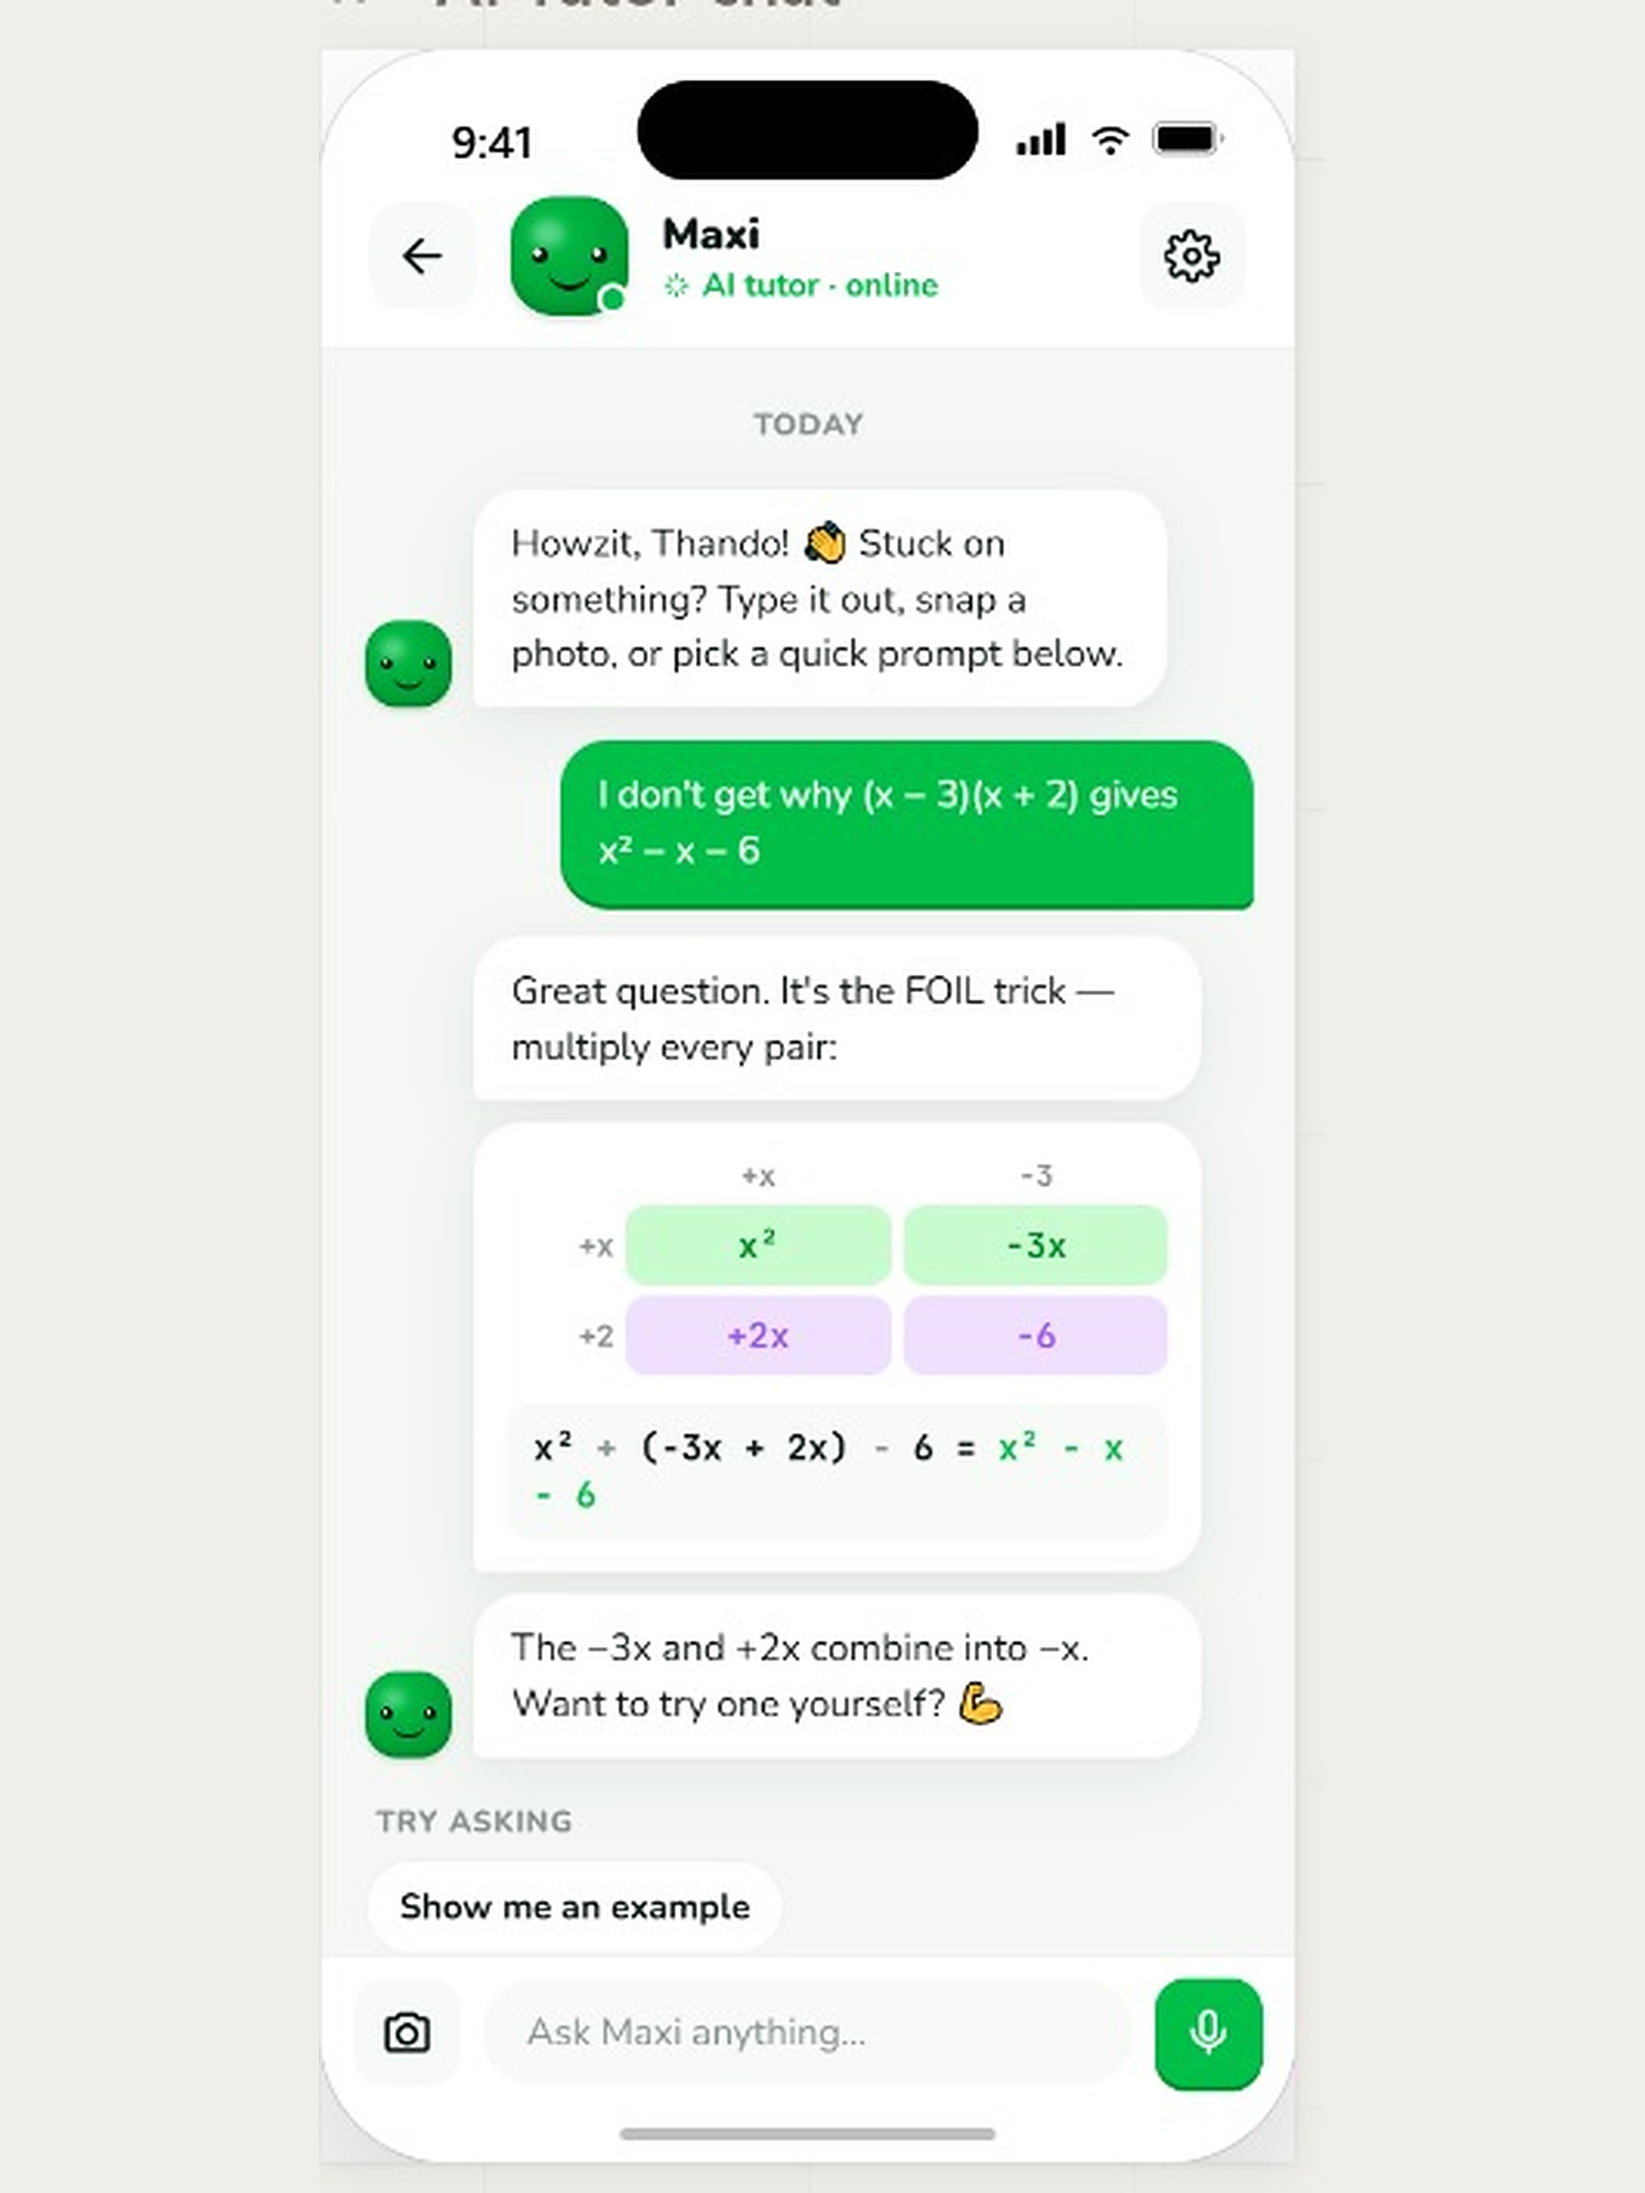
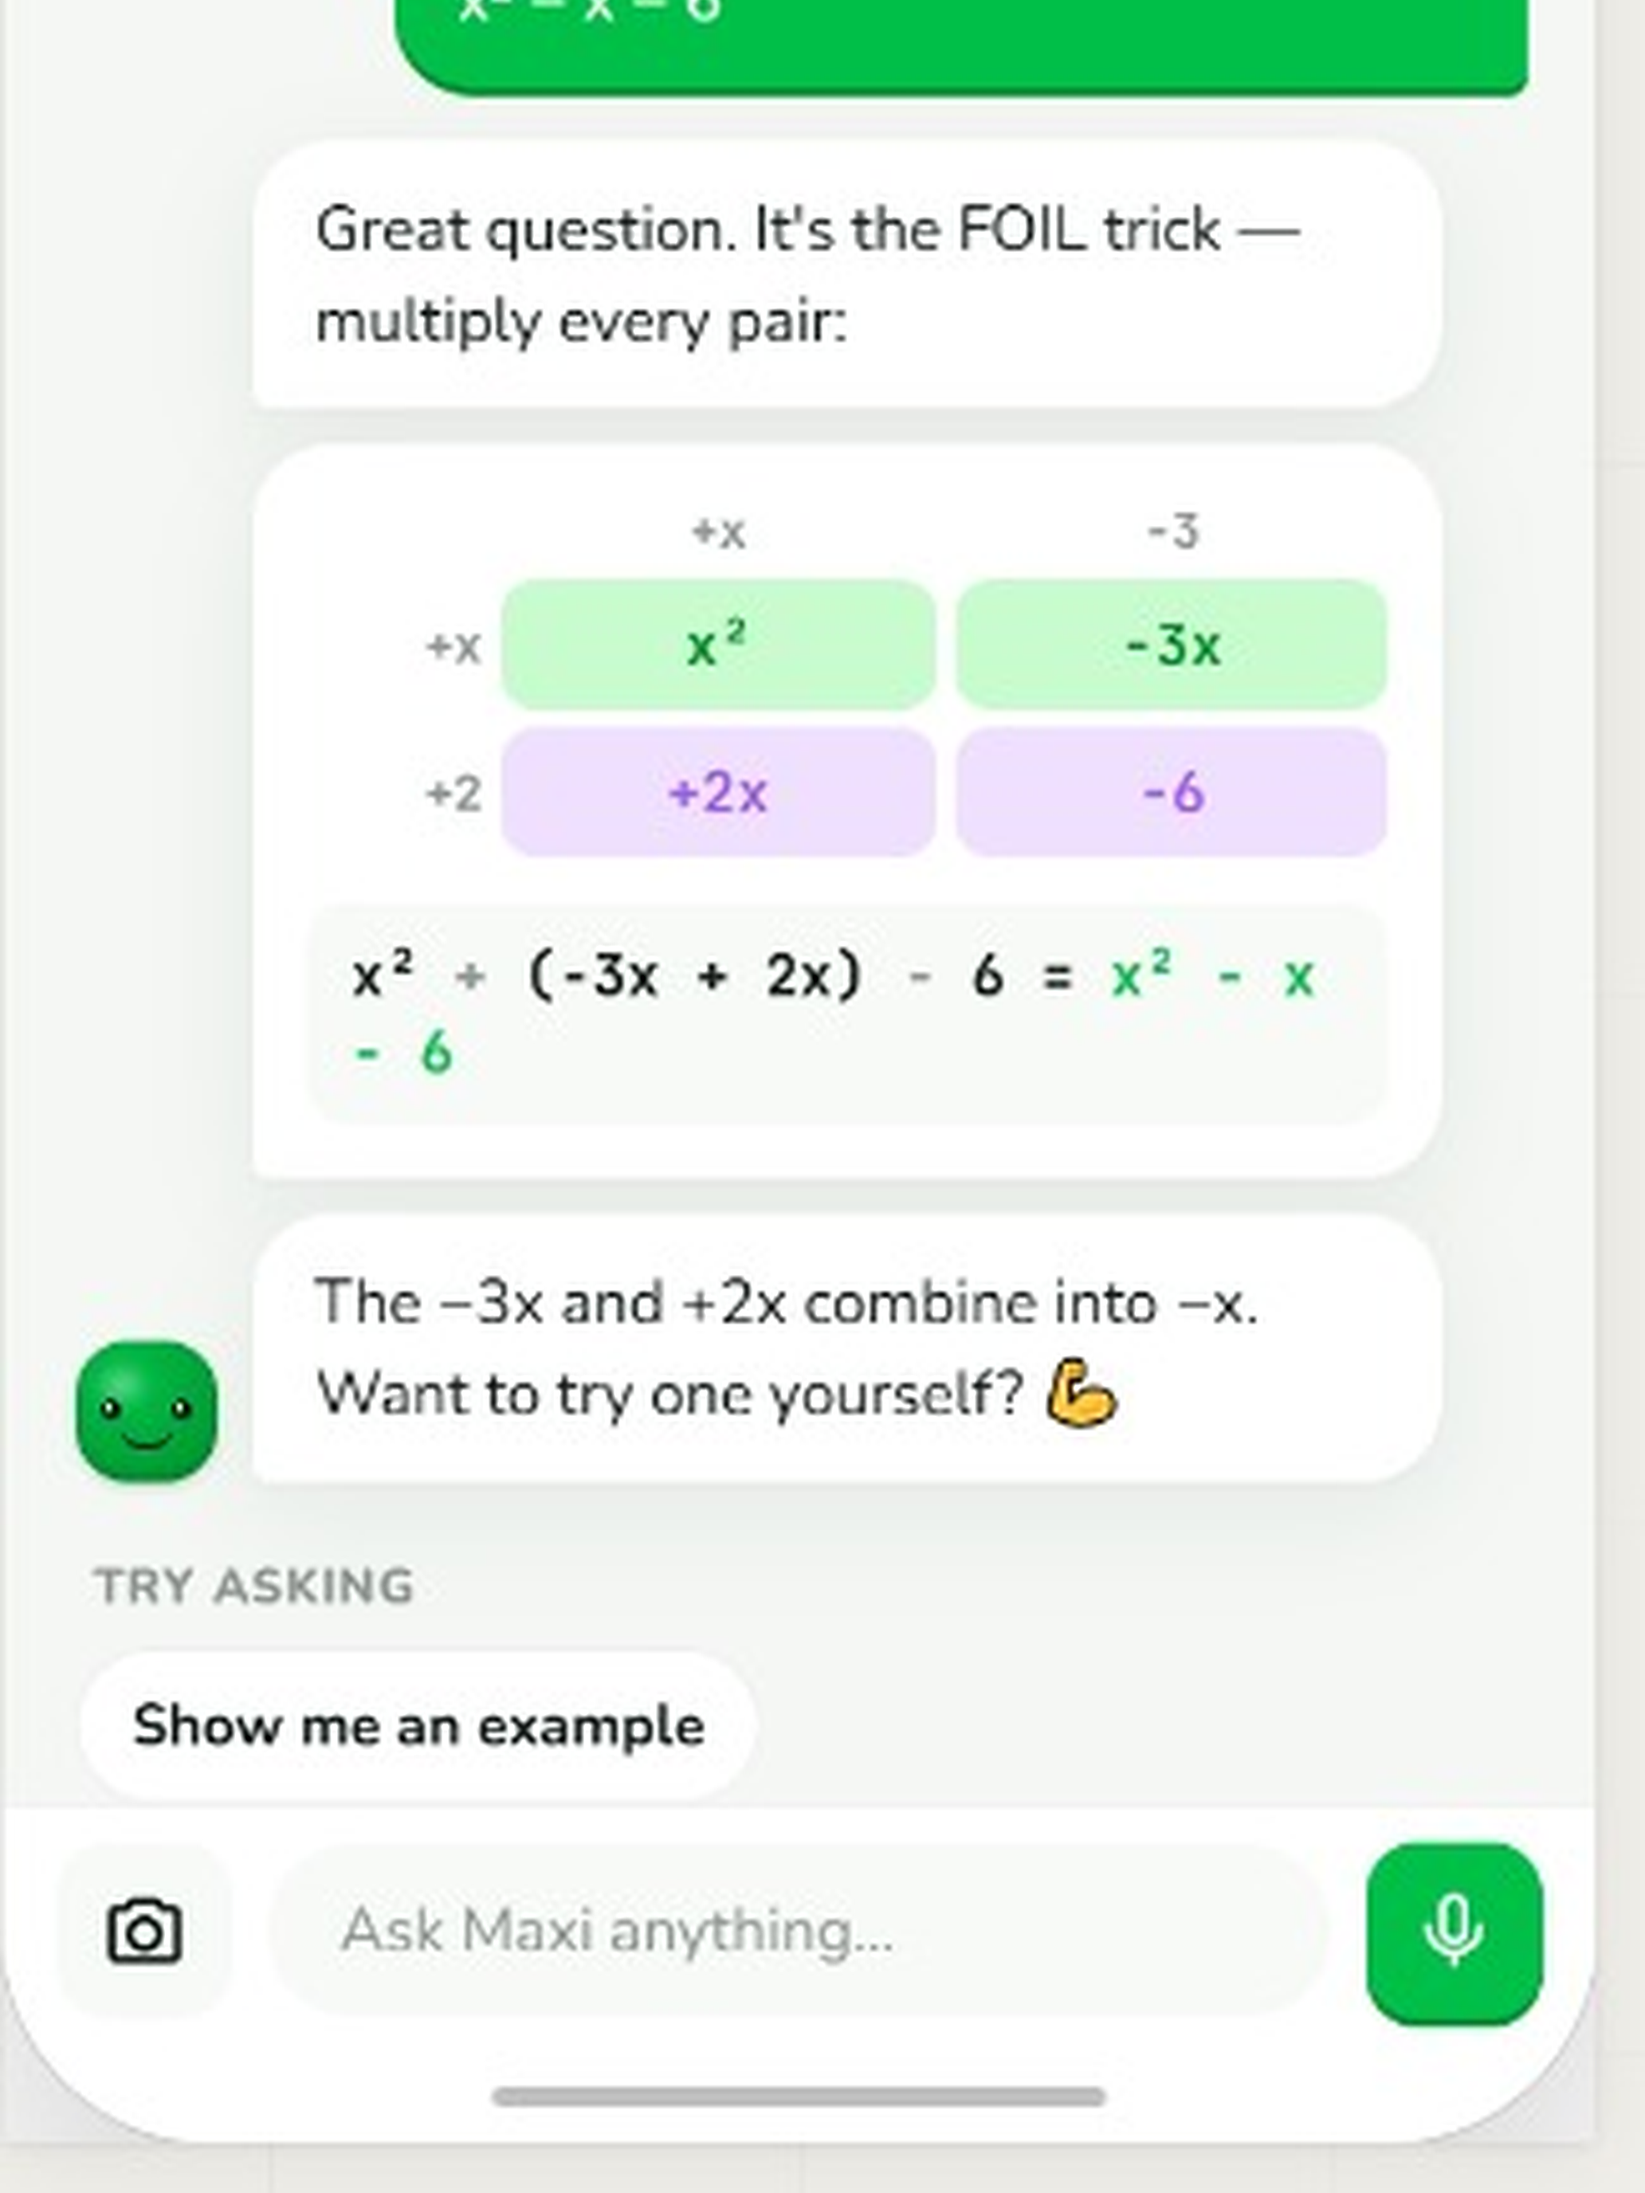
Make iPad 13in screenshots full-bleed, zero margin
Switch apple/ipad-13in from letterboxed to the same cover-crop treatment
as the other targets, per explicit request. The iPad canvas (~3:4) is far
more square than these phone screenshots (~9:20), so filling it edge-to-
edge means cropping away roughly 35-40% of each screenshot's height -
checked all 8 by eye to confirm nothing gets clipped mid-heading, button,
or nav bar, but each shows noticeably less of the original screen than
before.

Simplified convert_screenshots.py to a single cover-crop code path (every
target uses it now) and moved TOP_CROP_BIAS per-target since the iPad
target needs different tuning than the phone-ratio ones.

Claude-Session: https://claude.ai/code/session_01Pg4GhhLi1rDuj5SCi8CG4j

diff --git a/UI/store/convert_screenshots.py b/UI/store/convert_screenshots.py
@@ -12,22 +12,16 @@ SCRIPT_DIR = os.path.dirname(os.path.abspath(__file__))
 SRC_DIR = SCRIPT_DIR
 OUT_ROOT = SCRIPT_DIR
 
-# (folder, width, height, mode)
-#  mode "cover": scale to fill the canvas completely and crop the overflow -
-#    zero side margin, used when the target ratio is close enough to the
-#    source screenshots' ratio that little/no real content is lost.
-#  mode "contain": scale to fit entirely within the canvas and letterbox the
-#    rest with a color-matched background - used when the target ratio is
-#    too different from the source (cropping would destroy real content).
-#
-# Google Play (each side 320-3,840 px for phone/7" tablet, 1,080-7,680 px for
-# 10" tablet) and App Store Connect (iPhone 6.5" / iPad 13" Display) sizes:
+# (folder, width, height) - every target is scaled to fill the canvas
+# completely and cropped to size, for zero side margin. Google Play (each
+# side 320-3,840 px for phone/7" tablet, 1,080-7,680 px for 10" tablet) and
+# App Store Connect (iPhone 6.5" / iPad 13" Display) sizes:
 TARGETS = [
-    ("google-play/phone", 1080, 1920, "cover"),
-    ("google-play/tablet-7in", 1080, 1920, "cover"),
-    ("google-play/tablet-10in", 1280, 2276, "cover"),
-    ("apple/iphone-6.5in", 1284, 2778, "cover"),
-    ("apple/ipad-13in", 2064, 2752, "contain"),
+    ("google-play/phone", 1080, 1920),
+    ("google-play/tablet-7in", 1080, 1920),
+    ("google-play/tablet-10in", 1280, 2276),
+    ("apple/iphone-6.5in", 1284, 2778),
+    ("apple/ipad-13in", 2064, 2752),
 ]
 
 SRC_FILES = [f"Screenshots ({i}).jpeg" for i in range(1, 9)]
@@ -36,16 +30,15 @@ SRC_FILES = [f"Screenshots ({i}).jpeg" for i in range(1, 9)]
 # Per-screenshot override for how the vertical crop is split, as the
 # fraction taken from the top (status bar side) vs. the bottom (nav/button
 # side). Higher = more taken from the top. Tuned by eye per screenshot so
-# no header text or button/nav content gets clipped.
+# no header text or button/nav content gets clipped. Keyed per-target
+# because the iPad 13" canvas (~3:4) needs a much bigger crop than the
+# phone-ratio targets (~9:16), so it needs its own tuning.
 TOP_CROP_BIAS = {
-    1: 1.0,
-    2: 0.9,
-    3: 1.0,
-    4: 1.0,
-    5: 1.0,
-    6: 1.0,
-    7: 1.0,
-    8: 1.0,
+    "google-play/phone": {1: 1.0, 2: 0.9, 3: 1.0, 4: 1.0, 5: 1.0, 6: 1.0, 7: 1.0, 8: 1.0},
+    "google-play/tablet-7in": {1: 1.0, 2: 0.9, 3: 1.0, 4: 1.0, 5: 1.0, 6: 1.0, 7: 1.0, 8: 1.0},
+    "google-play/tablet-10in": {1: 1.0, 2: 0.9, 3: 1.0, 4: 1.0, 5: 1.0, 6: 1.0, 7: 1.0, 8: 1.0},
+    "apple/iphone-6.5in": {1: 1.0, 2: 0.9, 3: 1.0, 4: 1.0, 5: 1.0, 6: 1.0, 7: 1.0, 8: 1.0},
+    "apple/ipad-13in": {1: 1.0, 2: 1.0, 3: 1.0, 4: 1.0, 5: 1.0, 6: 1.0, 7: 1.0, 8: 1.0},
 }
 
 
@@ -55,7 +48,7 @@ def _upscale(im, new_size):
     return fg.filter(ImageFilter.UnsharpMask(radius=1.5, percent=60, threshold=2))
 
 
-def process_cover(im, target_w, target_h, top_bias):
+def process(im, target_w, target_h, top_bias):
     # Cover-fill: scale up so the image completely fills the target canvas
     # (no side margins), then crop the overflow off the top/bottom.
     scale = max(target_w / im.width, target_h / im.height)
@@ -69,34 +62,15 @@ def process_cover(im, target_w, target_h, top_bias):
     return fg.crop((crop_left, crop_top, crop_left + target_w, crop_top + target_h))
 
 
-def process_contain(im, target_w, target_h):
-    # Contain-fit: scale up so the image fits entirely within the target
-    # canvas without cropping, and letterbox the rest with a color sampled
-    # from the screenshot's own background so the bars blend in.
-    fill = im.getpixel((2, 2))
-    canvas = Image.new("RGB", (target_w, target_h), fill)
-
-    scale = min(target_w / im.width, target_h / im.height)
-    fg = _upscale(im, (round(im.width * scale), round(im.height * scale)))
-
-    paste_x = (target_w - fg.width) // 2
-    paste_y = (target_h - fg.height) // 2
-    canvas.paste(fg, (paste_x, paste_y))
-    return canvas
-
-
 def main():
     for idx, fname in enumerate(SRC_FILES, start=1):
         src_path = os.path.join(SRC_DIR, fname)
         im = Image.open(src_path).convert("RGB")
-        for folder, w, h, mode in TARGETS:
+        for folder, w, h in TARGETS:
             out_dir = os.path.join(OUT_ROOT, folder)
             os.makedirs(out_dir, exist_ok=True)
             out_path = os.path.join(out_dir, f"screenshot_{idx}.png")
-            if mode == "cover":
-                result = process_cover(im, w, h, TOP_CROP_BIAS[idx])
-            else:
-                result = process_contain(im, w, h)
+            result = process(im, w, h, TOP_CROP_BIAS[folder][idx])
             result.save(out_path, format="PNG")
             print(f"{fname} -> {out_path} ({result.size[0]}x{result.size[1]})")
 

diff --git a/UI/store/README.md b/UI/store/README.md
@@ -12,7 +12,7 @@ also requires a feature graphic (a store-listing banner, not a screenshot), gene
 | `google-play/tablet-10in/` | Google Play, 10" tablet | 1280x2276 (9:16) | full-bleed crop, zero margin |
 | `google-play/feature-graphic.png` | Google Play, store listing banner | 1024x500 | drawn from scratch (see below) |
 | `apple/iphone-6.5in/` | App Store Connect, iPhone 6.5" Display | 1284x2778 | full-bleed crop, zero margin |
-| `apple/ipad-13in/` | App Store Connect, iPad 13" Display | 2064x2752 | letterboxed, no crop |
+| `apple/ipad-13in/` | App Store Connect, iPad 13" Display | 2064x2752 | full-bleed crop, zero margin |
 
 All files are 24-bit PNG (no alpha channel), well under each store's size limit.
 
@@ -35,21 +35,22 @@ banner in sync.
 ## How they were made
 
 The source screenshots are small (~320x700 px) and shot on a taller-than-16:9 phone (roughly
-19.5:9). Each target is handled one of two ways, set per-target in `convert_screenshots.py`:
+19.5:9). Every target is upscaled to completely fill its canvas (no side margins), then the
+vertical overflow is cropped away. The crop is biased toward the top of the shot (status
+bar/header space, which is the most disposable) rather than the bottom, since these designs
+run edge-to-edge at the bottom with nav bars/CTA buttons that have almost no safe margin.
+`TOP_CROP_BIAS` in `convert_screenshots.py` holds a per-screenshot, per-target value tuned by
+eye so no heading, button, or nav bar is clipped.
 
-- **`cover`** (Google Play sizes, iPhone 6.5"): the image is upscaled to completely fill the
-  target canvas, then the overflow is cropped away - no side margins. The crop is biased
-  toward the top (status bar/header space, which is disposable) rather than the bottom, since
-  these designs run edge-to-edge at the bottom with nav bars/CTA buttons that have almost no
-  safe margin. `TOP_CROP_BIAS` holds a per-screenshot value tuned by eye so no heading, button,
-  or nav bar is clipped. The iPhone 6.5" target (1284x2778, ratio 0.462) is a near-exact match
-  for the source screenshots' own ratio (~0.45-0.49), so its crop is negligible (0-3% of the
-  height) - effectively no content is lost.
-- **`contain`** (iPad 13"): the iPad target ratio (0.75, i.e. ~3:4) is dramatically different
-  from these phone screenshots (~0.46) - cropping to fill it would cut away roughly 40% of
-  every screenshot's content, which isn't an acceptable trade. Instead the image is scaled to
-  fit entirely within the canvas and letterboxed with a color sampled from the screenshot's own
-  background, so nothing is cropped.
+The amount of cropping varies a lot by target:
+- The iPhone 6.5" target (1284x2778, ratio 0.462) is a near-exact match for the source
+  screenshots' own ratio (~0.45-0.49), so its crop is negligible (0-3% of the height) -
+  effectively no content is lost.
+- The iPad 13" target's ratio (0.75, i.e. ~3:4) is far more square than a phone screenshot,
+  so filling it edge-to-edge means cropping away roughly 35-40% of each screenshot's height.
+  Nothing gets clipped mid-heading/button/nav-bar (checked by eye across all 8), but each
+  image shows noticeably less of the original screen - it reads as "scrolled a bit," which is
+  the cost of forcing a phone screenshot into an iPad-shaped, zero-margin frame.
 
 Every upscale gets a light unsharp-mask pass to offset the softness introduced by scaling up
 such small originals.
@@ -60,5 +61,6 @@ sharp as a fresh capture straight from a device. For best results:
   `convert_screenshots.py` rather than relying on this upscaled/cropped set for production
   store listings.
 - For the iPad slot specifically, a screenshot captured on an actual iPad (showing the app's
-  real tablet layout, if it has one) will look far better than a letterboxed phone screenshot -
-  treat `apple/ipad-13in/` as a placeholder until one is available.
+  real tablet layout, if it has one) will look far better and lose far less content than
+  cropping a phone screenshot into that shape - treat `apple/ipad-13in/` as a placeholder
+  until one is available.
